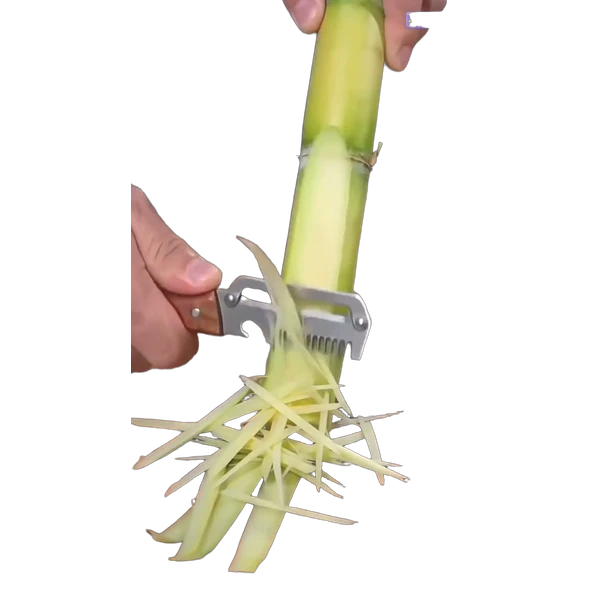
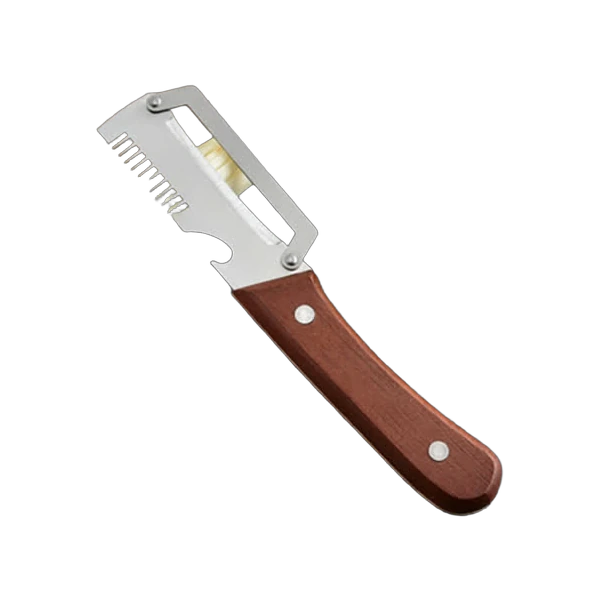
site: #001~#003 카드 이미지 교체 (손·중국어 없는 사진)

Changed region(s): [[0.15, 0.0, 0.84, 0.96]]

diff --git a/index.html b/index.html
@@ -145,6 +145,7 @@ img{display:block;max-width:100%}
   "수납",
   "욕실",
   "청소",
+  "생활",
   "기타"
  ],
  "products": [
